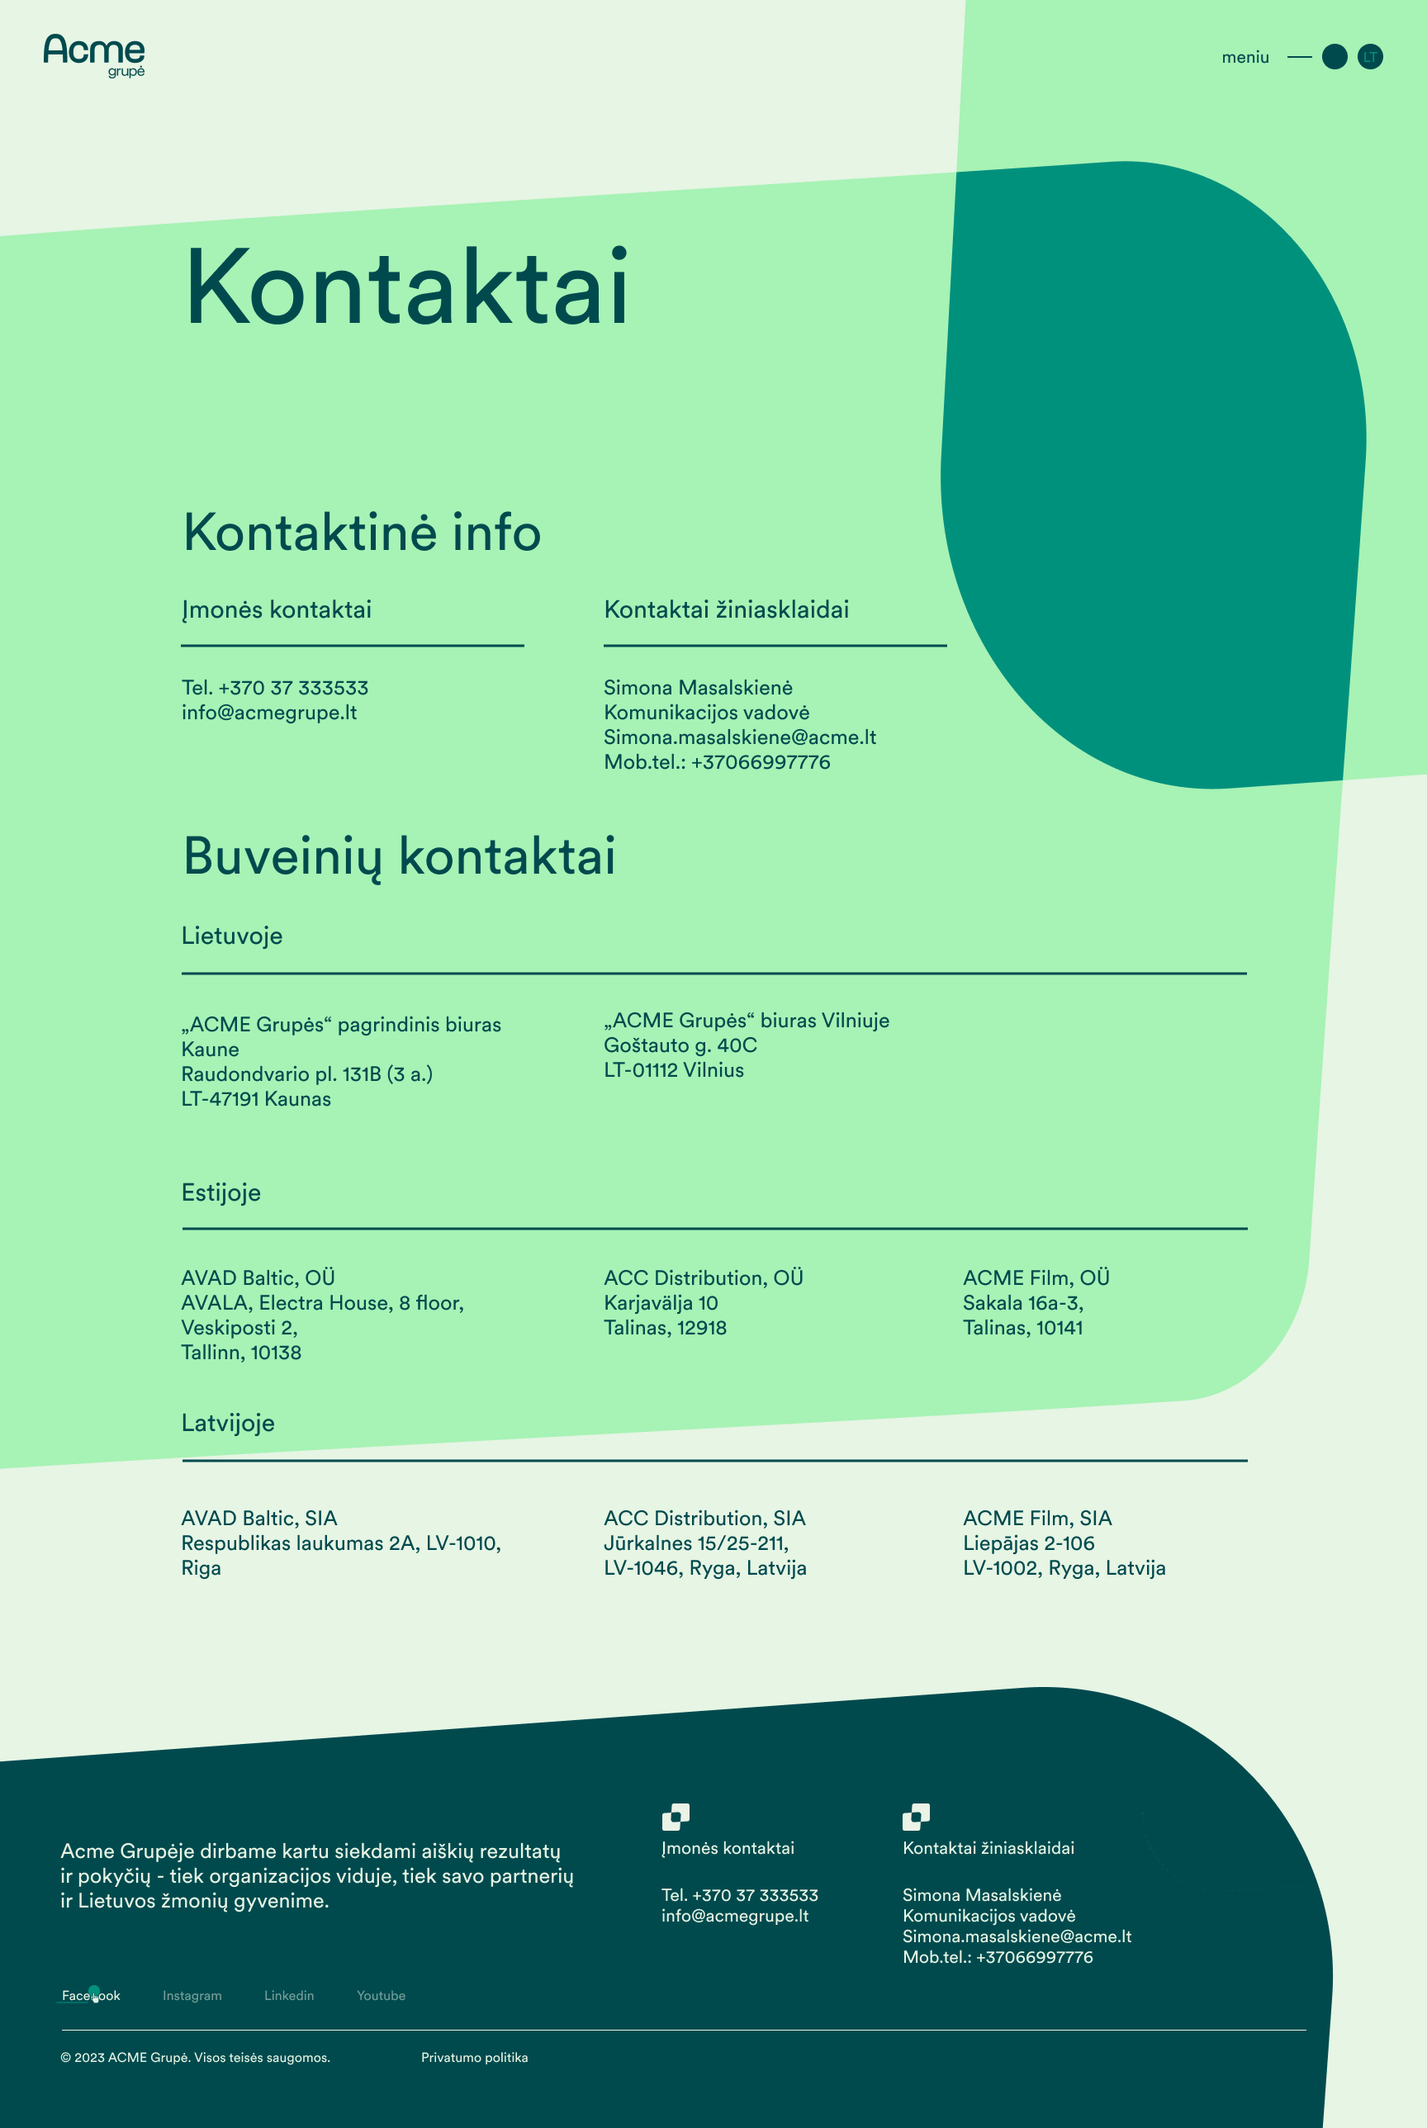
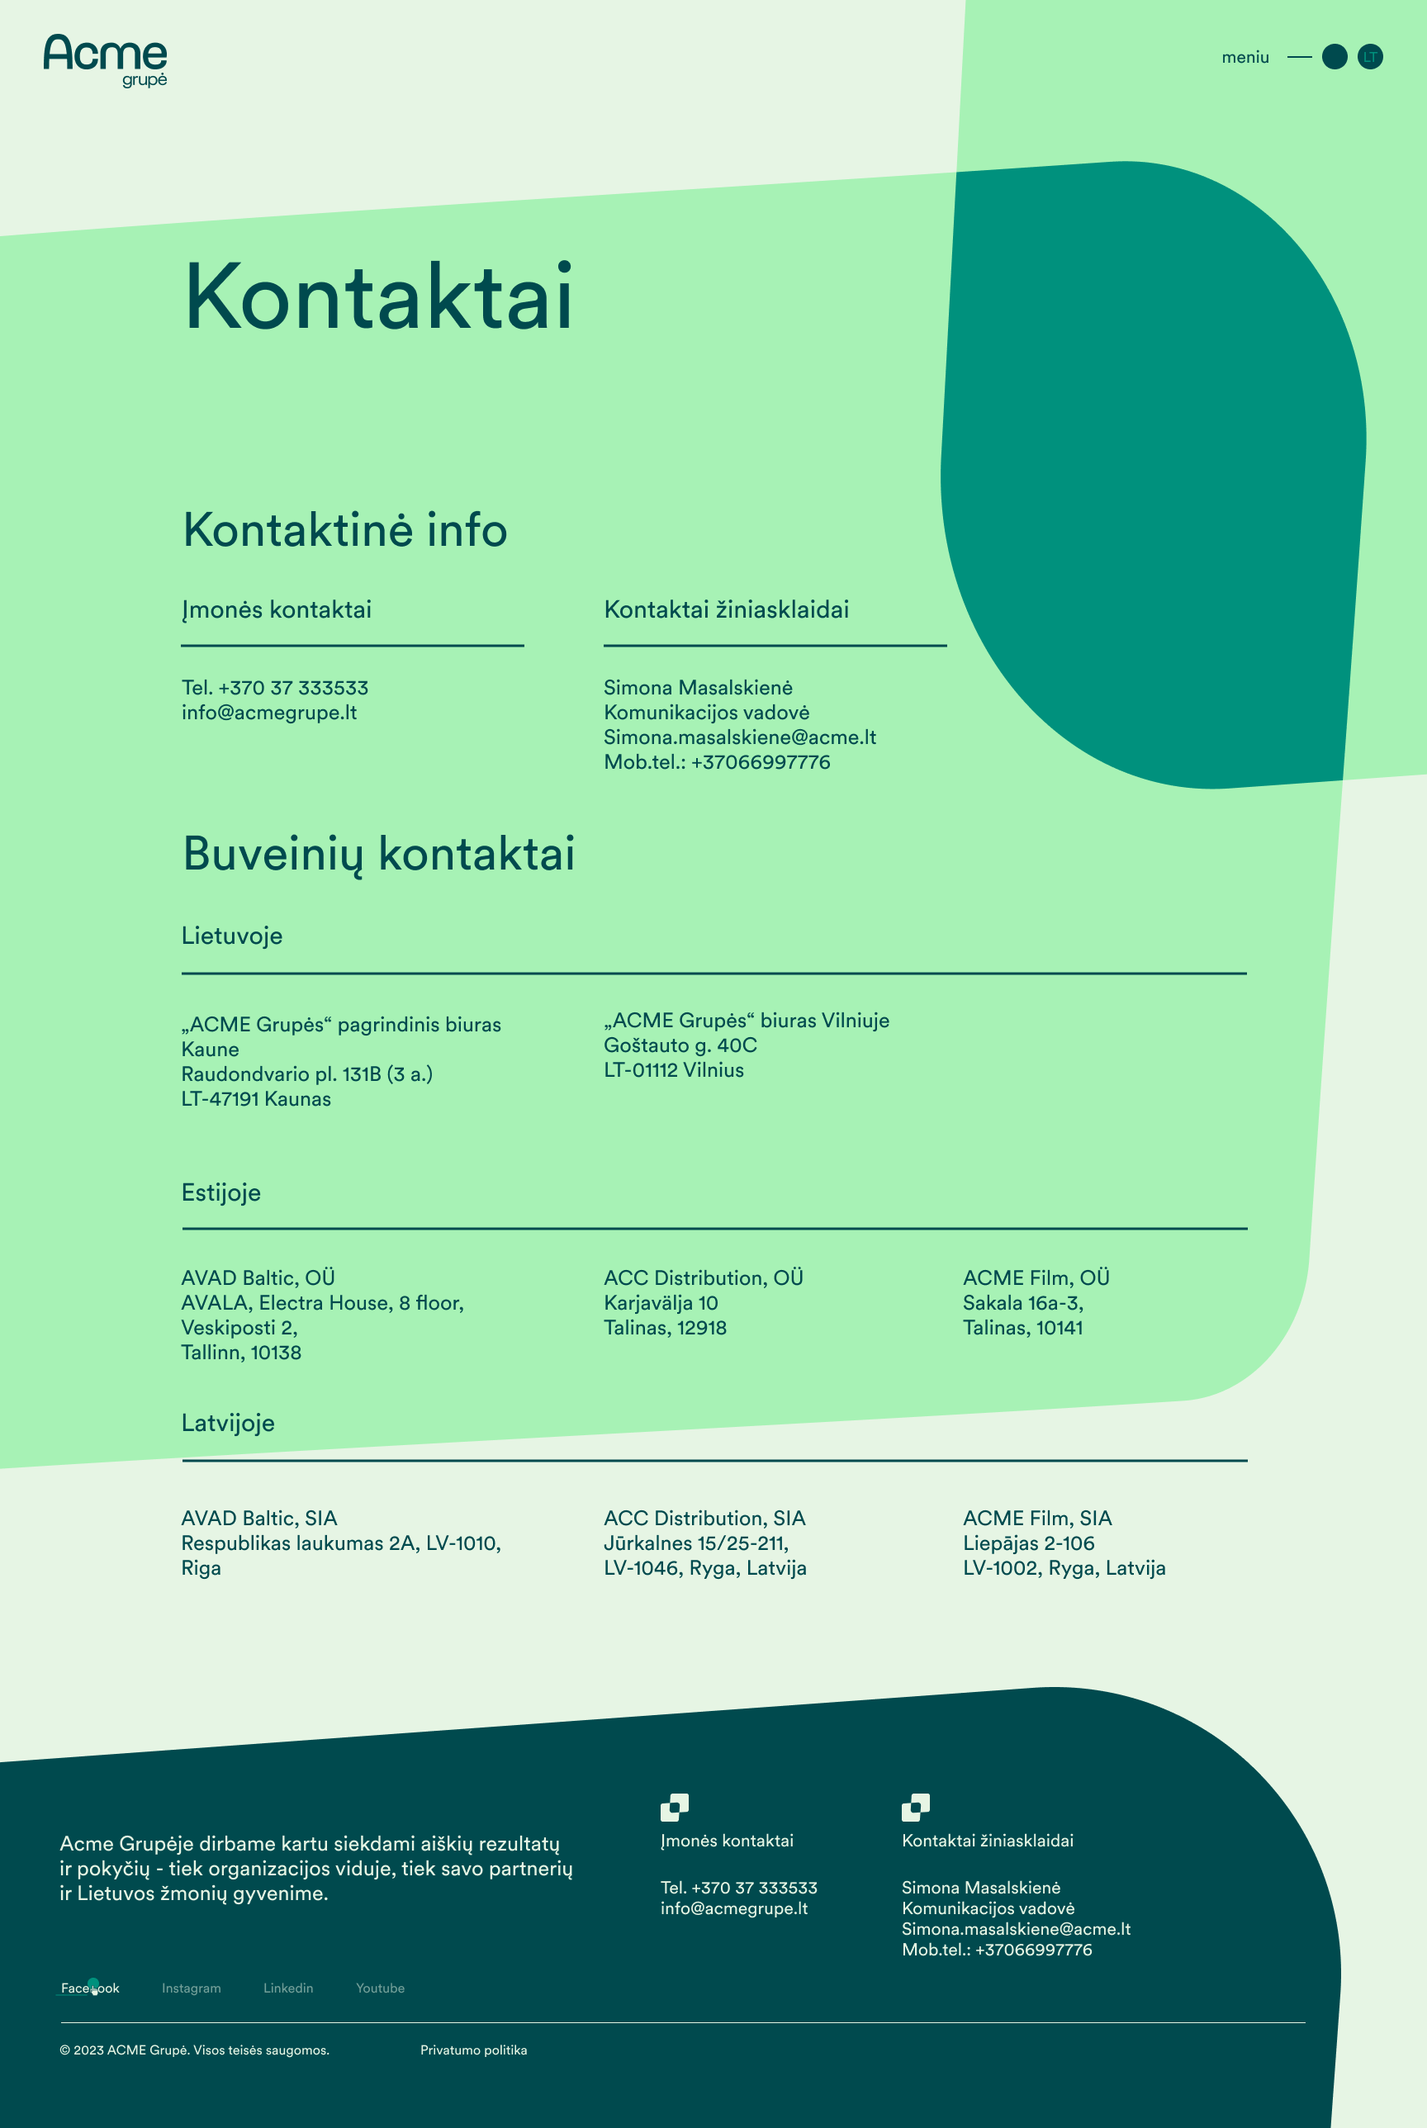
kontaktai loading animation

diff --git a/src/pages/kontaktai.html b/src/pages/kontaktai.html
@@ -7,7 +7,7 @@
     <link rel="stylesheet" href="https://fonts.googleapis.com/css2?family=Plus+Jakarta+Sans:wght@200;300;400;500&display=swap">
     <link rel="stylesheet" href="/src/styles/global.scss">
     <link rel="stylesheet" href="/src/styles/header.scss">
-    <link rel="stylesheet" href="/src/styles/pagrindines-veiklos.scss">
+    <link rel="stylesheet" href="/src/styles/kontaktai.scss">
     <link rel="stylesheet" href="/src/styles/footer.scss">
   </head>
   <body>
@@ -69,70 +69,97 @@
 
   <!-- Main content -->
     <main id="mainContent">
+        
         <section class="section-1">
             <div class="shape-1"></div>
-            <img class="shape-2" src="/images/activities-1.jpg" alt="">
 
-            <h1>Pagrindines vieklos</h1>
-            <div class="content">
-                <h2>ACC Distribution</h2>
-
-                <p>„ACC Distribution“ siekia tapti Nr. 1 pasirinkimu Baltijos šalyse didmeninės prekybos elektronikos įrenginiais srityje, išsiskirianti stipriomis distribucijos ir pridėtinės vertės kūrimo kompetencijomis. Tai viena didžiausių ir sparčiausiai augančių didmeninės prekybos bendrovių Baltijos šalyse.</p>
-
-                <p>Bendrovė atstovauja daugiau nei 200 informacinių technologijų, kompiuterinės technikos, programinės įrangos, garso, vaizdo ir fotografijos, kompiuterinių žaidimų bei buitinės technikos tiekėjų ir prekinių ženklų, tarp kurių tokie vardai kaip Dell, Lenovo, Asus, Acer, Microsoft, LG, Samsung, Huawei ir kiti.</p>
-
-                <p> UAB ACC Distribution ir jai priklausančiose bendrovėse dirba virš 200 darbuotojų, kurie aptarnauja daugiau kaip 4000 klientų Baltijos šalyse.</p>
-                <a class="button" href="#">Daugiau informacijos</a>
-            </div>
-        </section>
-
-        <section class="section-2">
-          <div class="foto-1">
-            <img src="/pagrindines-veiklos/foto-1.png" alt="">
-            <div class="shape-2"></div>
-          </div>
- 
-            <div class="content">
-                <h2>Acme film</h2>
-                <p>Viena iš didžiausių kino platintojų Baltijos šalyse „ACME Film“ savąją istoriją skaičiuoja nuo 1999 m. kovo 5 dienos. Jau pirmaisiais veiklos metais kompanija sėkmingai augo, plėtė veiklą Lietuvoje, o vėliau žengė į Latvijos ir Estijos kino rinką.</p>
-
-                <p>„ACME Film“ yra oficiali „Warner Bros“ ir „Sony Pictures“ atstovė bei didžiausia nepriklausomų filmų platintoja Baltijos šalyse, dirbanti su „Lionsgate“, „STX“, „Amblin“, „Studiocanal“ ir daugeliu kitų studijų. Nuo pat veiklos pradžios „ACME Film“ komanda kruopščiai atrenka Lietuvos žiūrovams įdomius ir aktualius filmus, platina juos kino teatruose, televizijoje ir namų kino platformose.</p>
-
-                <p>Bendrovė platina bei kuria lietuvišką kiną: repertuare tokie filmai, kaip „Tarp pilkų debesų“, „Tadas Blinda: pradžia“, „Valentinas vienas“, „Emilija iš Laisvės alėjos“, „Ir visi jų vyrai“, „Importinis jaunikis“ ir kt.</p>
-
-                <div class="brands">
-                    <img src="/pagrindines-veiklos/brand-1.svg" alt="brand-1">
-                    <img src="/pagrindines-veiklos/brand-2.svg" alt="brand-2">
-                    <img src="/pagrindines-veiklos/brand-3.svg" alt="brand-3">
-                </div>
-
-                <a href="#" class="button">Daugiau informacijos</a>
-            </div>
-        </section>
-
-        <section class="section-3">
-          <div class="foto-2">
-            <img src="/pagrindines-veiklos/foto-2.jpg" alt="">
-          </div>
           
-
-          <div class="content">
-              <h2>Avad Baltic</h2>
-              <p>UAB „AVAD Baltic“ yra „Apple“ įgaliotasis platintojas (angl. „Apple Authorised Distributor“), atsakingas už nuoseklų „Apple“ prekinio ženklo augimą ir vystymą Baltijos šalyse, taip pat už įgaliotųjų pardavėjų (angl. „Apple Authorised Reseller“) ir paslaugų teikėjų (angl. „Apple Service Provider“) tinklo plėtrą.</p>
-
-              <p>„AVAD Baltic“ komanda aktyviai prisideda prie „Apple“ technologijų adaptavimo ir naudojimo, padėdama kelti verslo ir švietimo sektoriaus specialistų kvalifikaciją, mokydama ir konsultuodama specialistus, kaip naudotis moderniomis „Apple“ technologijomis.</p>
-
-              <div class="brands">
-                  <img src="/pagrindines-veiklos/brand-1.svg" alt="brand-1">
-                  <img src="/pagrindines-veiklos/brand-2.svg" alt="brand-2">
-                  <img src="/pagrindines-veiklos/brand-3.svg" alt="brand-3">
+            <div class="content">
+                <h1>Kontaktai</h1>
+              
+                <div class="info">
+                  <h2>Kontaktinė info</h2>
+                  <div class="info-content">
+                    <div class="contact">
+                      <p class="contact-title">Įmonės kontaktai</p>
+                      <p>Tel. +370 37 333533</p>
+                      <p>info@acmegrupe.lt</p>
+                    </div>
+  
+                    <div class="contact">
+                      <p class="contact-title">Kontaktai žiniasklaidai</p>
+                      <p>Simona.masalskiene@acme.lt</p>
+                      <p>Komunikacijos vadovė</p>
+                      <p>Mob.tel.: +37066997776</p>
+                  </div>
+                  </div>
               </div>
 
-              <a href="#" class="button">Daugiau informacijos</a>
-          </div>
-      </section>
-     
-        
+              <div class="info-2">
+                <h2>Buveinių kontaktai</h2>
+                <p class="contact-2-title">Lietuvoje</p>
+                <div class="info-content-2">
+                  <div class="contact">
+                    <p>„ACME Grupės“ pagrindinis biuras Kaune</p>
+                    <p>Raudondvario pl. 131B (3 a.)</p>
+                    <p>LT-47191 Kaunas</p>
+                  </div>
+
+                  <div class="contact">
+                    <p>„ACME Grupės“ biuras Vilniuje</p>
+                    <p>Goštauto g. 40C</p>
+                    <p>LT-01112 Vilnius</p>
+                </div>
+                </div>
+            </div>
+
+              <div class="info-2">
+                <p class="contact-2-title">Estijoje</p>
+                <div class="info-content-2">
+                  <div class="contact">
+                    <p>AVAD Baltic, OÜ</p>
+                    <p>AVALA, Electra House, 8 floor, Veskiposti 2,</p>
+                    <p>Tallinn, 10138</p>
+                  </div>
+
+                  <div class="contact">
+                    <p>ACC Distribution, OÜ</p>
+                    <p>Karjavälja 10</p>
+                    <p>Talinas, 12918</p>
+                </div>
+
+                <div class="contact">
+                  <p>ACME Film, OÜ</p>
+                  <p>Sakala 16a-3,</p>
+                  <p>Talinas, 10141</p>
+              </div>
+                </div>
+            </div>
+
+              <div class="info-2">
+                <p class="contact-2-title">Latvijoje</p>
+                <div class="info-content-2">
+                  <div class="contact">
+                    <p>AVAD Baltic, SIA</p>
+                    <p>Respublikas laukumas 2A, LV-1010, Riga</p>
+                  </div>
+
+                  <div class="contact">
+                    <p>ACC Distribution, SIA</p>
+                    <p>Jūrkalnes 15/25-211,</p>
+                    <p>LV-1046, Ryga, Latvija</p>
+                </div>
+
+                <div class="contact">
+                  <p>ACME Film, SIA</p>
+                  <p>Liepājas 2-106</p>
+                  <p>LV-1002, Ryga, Latvija</p>
+              </div>
+                </div>
+            </div>
+            </div>
+        </section>
+
         <footer>
             <svg class="footer-forma" width="1625" height="570" viewBox="0 0 1625 570" fill="none" xmlns="http://www.w3.org/2000/svg">
             <path d="M1624.08 372.518C1639.32 161.298 1463.61 -14.3191 1252.29 0.923077C834.712 31.0255 417.134 61.1379 -0.433437 91.2403L-32 601H1607.58C1613.07 524.839 1618.58 448.678 1624.07 372.518H1624.08Z" fill="#004A4E"/>
@@ -177,16 +204,17 @@
     </main>
 
     <script type="module" src="/src/scripts/navigation.js"></script>
-    <script type="module">
-      import gsap from "gsap";
-      import ScrollTrigger from "gsap/ScrollTrigger";
-      gsap.registerPlugin(ScrollTrigger);
+      <!-- Loading animation -->
+      <script type="module">
+        import gsap from "gsap";
+        import ScrollTrigger from "gsap/ScrollTrigger";
+        gsap.registerPlugin(ScrollTrigger);
 
-      // Landing
-      //   Scroll to top after refresh
-    window.onbeforeunload = function () {
-      window.scrollTo(0, 0);
-    }
+        
+        //   Scroll to top after refresh
+        window.onbeforeunload = function () {
+            window.scrollTo(0, 0);
+          }
 
       document.body.style.overflow = 'hidden';
 
@@ -197,7 +225,7 @@
           x: 0,
           duration: 1,
           ease: "power3.inOut",
-          clipPath: "inset(0 0 0 0%)"
+          clipPath: "inset(0 0 0 -13%)"
         }, "0.5");  
 
         tl.from('.section-1 .content', {
@@ -214,8 +242,6 @@
         });
       });
 
-
-
-    </script>
+      </script>
     </body>
 </html>

diff --git a/src/styles/kontaktai.scss b/src/styles/kontaktai.scss
@@ -1,0 +1,135 @@
+body {
+    background: var(--green-light);
+    min-height: auto;
+    & > *,
+    a {
+        cursor: url('/icons/cursor-green.svg'), pointer;
+    }
+}
+
+button, a, .logo, .right {
+    cursor: url('/icons/pointer-green.svg'), pointer;
+}
+
+header {
+    .logo {
+        transform: translateY(0%);
+        clip-path: inset(0 0 0% 0);
+    }
+
+    .right {
+        transform: translateY(0px);
+        clip-path: inset(0 0 0% 0);
+    }
+}
+
+
+main {
+    min-height: 100vh;
+    max-width: 2560px;
+    margin: auto;
+}
+
+.section-1 {
+    display: grid;
+    grid-template-columns: repeat(6, 1fr);
+    grid-template-rows: 1fr 0.3fr;
+    color: var(--dark-green);
+    max-width: 2043px;
+    margin: auto;
+    position: relative;
+    clip-path: inset(0 0 0 100%);
+    transform: translateX(-300px);
+
+    .shape-1 {
+        background: url('/kontaktai/shape-1.svg');
+        background-repeat: no-repeat;
+        background-size: cover;
+        position: absolute;
+        top: -100px;
+        right: 13px;
+        width: 1600px;
+        height: 1700px;
+
+        &::before {
+            content: "";
+            position: absolute;
+            top: 16.6%;
+            left: -60%;
+            width: 85%;
+            height: 83.4%;
+            background: var(--green-spot);
+            transform: rotate(-3deg);
+            z-index: -1;
+        }
+
+        &::after {
+            content: "";
+            position: absolute;
+            top: 1.3%;
+            right: -25.8%;
+            width: 30%;
+            height: 50.5%;
+            background: var(--green-spot);
+            transform: rotate(-4deg);
+            z-index: -1;
+        }
+    }
+
+    .content {
+        font-weight: 400;
+        grid-column: 2/5;
+        grid-row: 1;
+        max-width: 800px;
+        transform: translate(0, 290px);
+        right: 1116px;
+        color: var(--dark-green);
+
+        h1 {
+           font-weight: normal;
+           margin-bottom: 200px;
+        }
+
+        h2 {
+            margin: 50px 0;
+        }
+
+
+        .info-content {
+            display: flex;
+            gap: 5vw;
+            max-width: 1000px;
+        }
+
+        .info-content .contact {
+            width: 50%;
+            min-width: 250px;
+            .contact-title {
+                border-bottom: 3px solid var(--dark-green);
+                margin-bottom: 25px;
+                padding-bottom: 25px;
+            }
+        }
+
+
+        .info-2 {
+            margin-bottom: 50px;
+            .contact-2-title {
+                border-bottom: 3px solid var(--dark-green);
+                margin-bottom: 25px;
+                padding-bottom: 25px;
+            }
+
+            .info-content-2 {
+                display: flex;
+                gap: 5vw;
+                max-width: 1000px;
+            }
+
+            .info-content-2 .contact {
+                width: 50%;
+                min-width: 250px;
+            }
+        }
+    }
+}

diff --git a/src/pages/tvarumas.html b/src/pages/tvarumas.html
@@ -57,7 +57,7 @@
             <span>Karjera</span>
           </a>
     
-          <a href="#" class="link">
+          <a href="kontaktai.html" class="link">
             <svg width="41" height="40" viewBox="0 0 41 40"  xmlns="http://www.w3.org/2000/svg">
               <path class="fill" d="M38.1342 37.997C39.7894 37.9229 41.0711 36.521 40.997 34.8658L39.7893 7.89283C39.7151 6.23764 38.3133 4.95591 36.6581 5.03003C35.0029 5.10414 33.7211 6.50602 33.7953 8.16122L34.8688 32.1372L10.8928 33.2107C9.23763 33.2849 7.95591 34.6867 8.03003 36.3419C8.10414 37.9971 9.50602 39.2789 11.1612 39.2047L38.1342 37.997ZM0.975692 5.21409L35.9757 37.2141L40.0243 32.7859L5.02431 0.785914L0.975692 5.21409Z"/>
             </svg>

diff --git a/src/pages/apie-mus.html b/src/pages/apie-mus.html
@@ -58,7 +58,7 @@
           <span>Karjera</span>
         </a>
   
-        <a href="#" class="link">
+        <a href="kontaktai.html" class="link">
           <svg width="41" height="40" viewBox="0 0 41 40"  xmlns="http://www.w3.org/2000/svg">
             <path class="fill" d="M38.1342 37.997C39.7894 37.9229 41.0711 36.521 40.997 34.8658L39.7893 7.89283C39.7151 6.23764 38.3133 4.95591 36.6581 5.03003C35.0029 5.10414 33.7211 6.50602 33.7953 8.16122L34.8688 32.1372L10.8928 33.2107C9.23763 33.2849 7.95591 34.6867 8.03003 36.3419C8.10414 37.9971 9.50602 39.2789 11.1612 39.2047L38.1342 37.997ZM0.975692 5.21409L35.9757 37.2141L40.0243 32.7859L5.02431 0.785914L0.975692 5.21409Z"/>
           </svg>

diff --git a/src/pages/landing.html b/src/pages/landing.html
@@ -58,7 +58,7 @@
           <span>Karjera</span>
         </a>
   
-        <a href="#" class="link">
+        <a href="kontaktai.html" class="link">
           <svg width="41" height="40" viewBox="0 0 41 40"  xmlns="http://www.w3.org/2000/svg">
             <path class="fill" d="M38.1342 37.997C39.7894 37.9229 41.0711 36.521 40.997 34.8658L39.7893 7.89283C39.7151 6.23764 38.3133 4.95591 36.6581 5.03003C35.0029 5.10414 33.7211 6.50602 33.7953 8.16122L34.8688 32.1372L10.8928 33.2107C9.23763 33.2849 7.95591 34.6867 8.03003 36.3419C8.10414 37.9971 9.50602 39.2789 11.1612 39.2047L38.1342 37.997ZM0.975692 5.21409L35.9757 37.2141L40.0243 32.7859L5.02431 0.785914L0.975692 5.21409Z"/>
           </svg>

diff --git a/src/pages/veiklos-kryptys.html b/src/pages/veiklos-kryptys.html
@@ -58,7 +58,7 @@
           <span>Karjera</span>
         </a>
   
-        <a href="#" class="link">
+        <a href="kontaktai.html" class="link">
           <svg width="41" height="40" viewBox="0 0 41 40"  xmlns="http://www.w3.org/2000/svg">
             <path class="fill" d="M38.1342 37.997C39.7894 37.9229 41.0711 36.521 40.997 34.8658L39.7893 7.89283C39.7151 6.23764 38.3133 4.95591 36.6581 5.03003C35.0029 5.10414 33.7211 6.50602 33.7953 8.16122L34.8688 32.1372L10.8928 33.2107C9.23763 33.2849 7.95591 34.6867 8.03003 36.3419C8.10414 37.9971 9.50602 39.2789 11.1612 39.2047L38.1342 37.997ZM0.975692 5.21409L35.9757 37.2141L40.0243 32.7859L5.02431 0.785914L0.975692 5.21409Z"/>
           </svg>

diff --git a/vite.config.js b/vite.config.js
@@ -19,6 +19,7 @@ export default defineConfig({
         apieMus: path.resolve(__dirname, 'src/pages/apie-mus.html'),
         tvarumas: path.resolve(__dirname, 'src/pages/tvarumas.html'),
         veiklosKryptys: path.resolve(__dirname, 'src/pages/veiklos-kryptys.html'),
+        veiklosKryptys: path.resolve(__dirname, 'src/pages/kontaktai.html'),
         pagrindinesVeiklos: path.resolve(__dirname, 'src/pages/pagrindines-veiklos.html'),
        
       }
